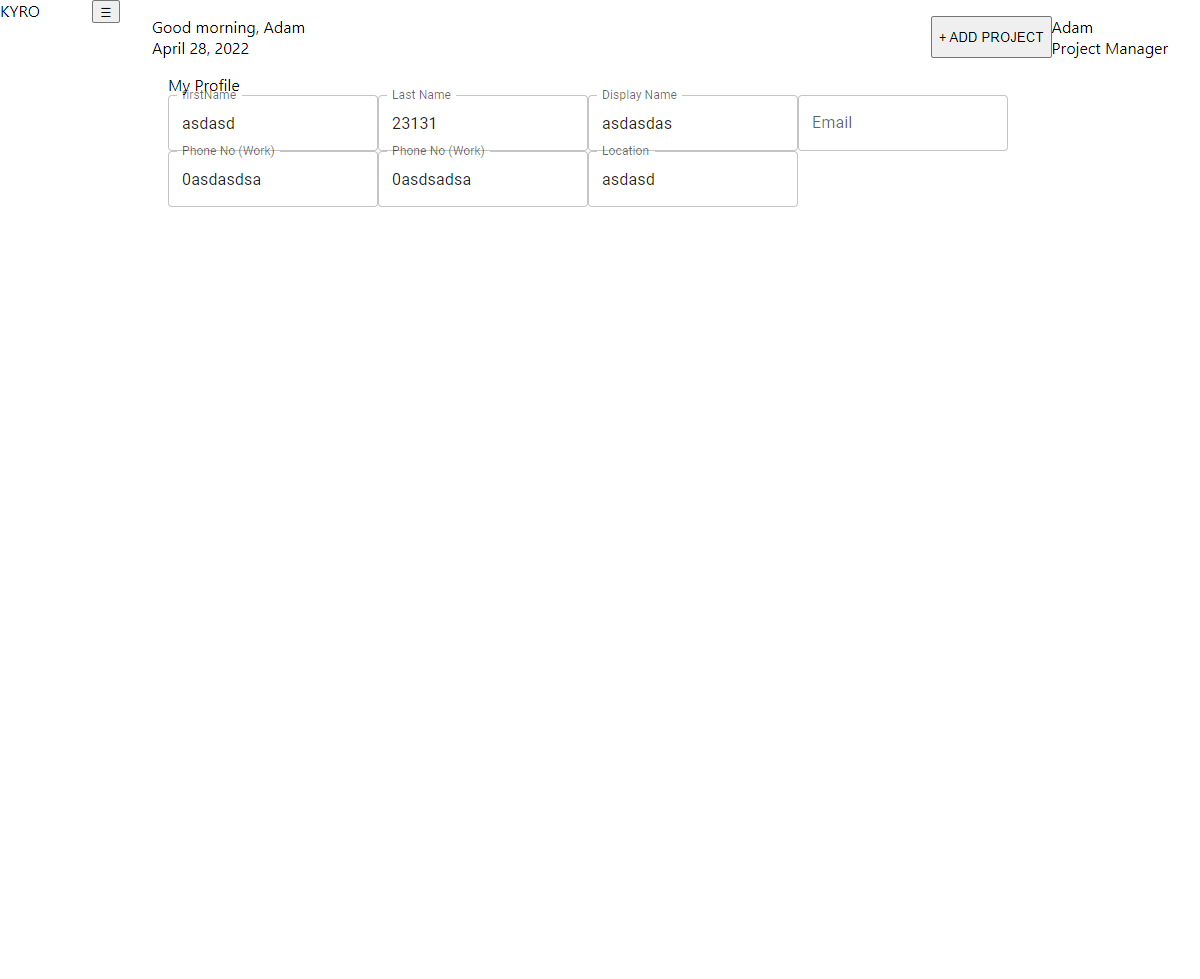
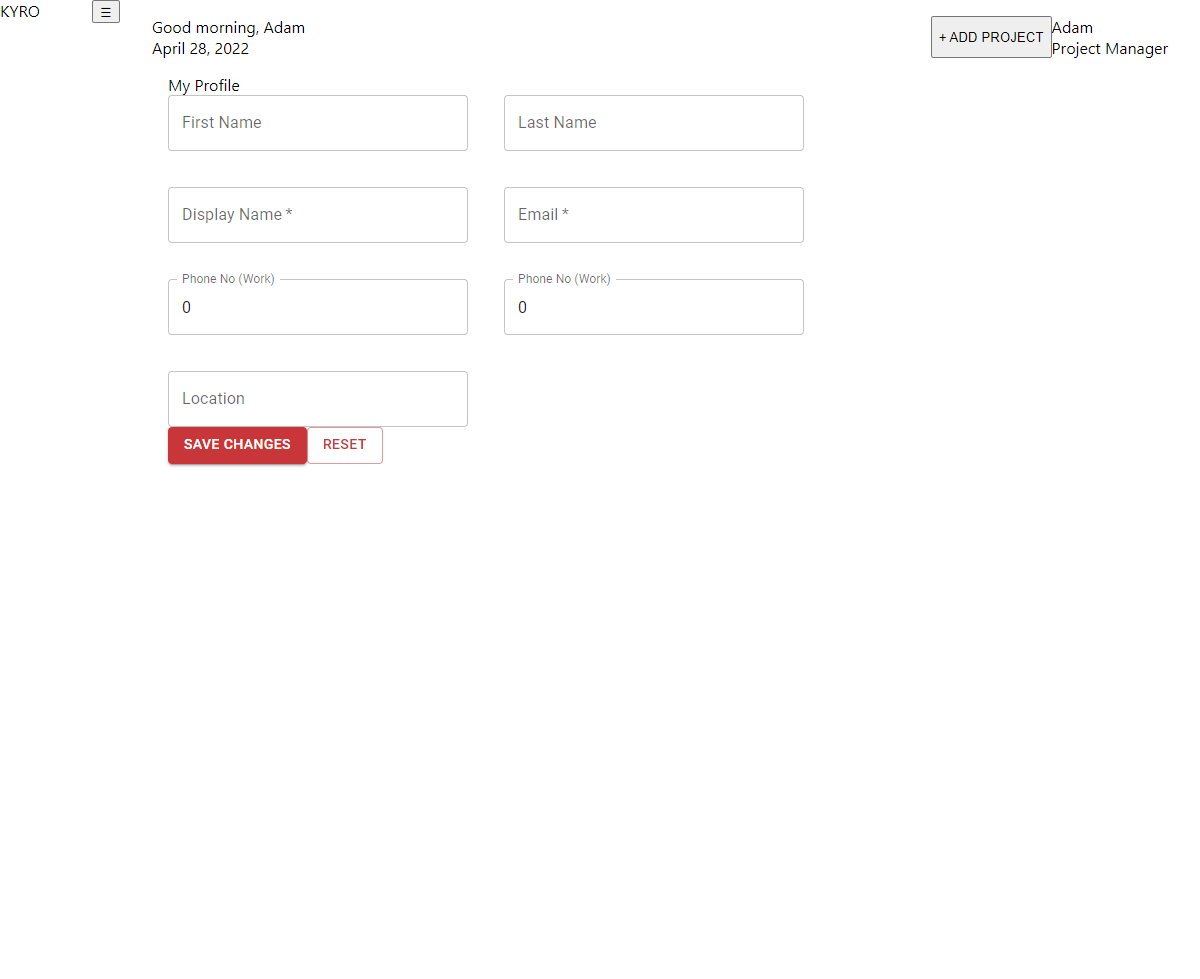
feat:fe: mock submit and reset btn created; style: styled inputs and buttons

diff --git a/frontend/pages/account/details/index.tsx b/frontend/pages/account/details/index.tsx
@@ -1,5 +1,7 @@
 import { FC, useEffect, useState, ChangeEvent } from 'react';
+import Button from '@mui/material/Button';
 import TextField from '@mui/material/TextField';
+import styles from './index.module.css';
 
 interface IAccountDetailsProps {
 }
@@ -15,27 +17,36 @@ const AccountDetails: FC<IAccountDetailsProps> = (props) => {
     phoneNo2: 0,
     location: ''
   };
-  const [formAccDetails, setFormAccDetails] = useState(initialFormState);
+  const [ formAccDetails, setFormAccDetails ] = useState(initialFormState);
 
   function handleChange(e: ChangeEvent<HTMLInputElement>) {
-    console.log(e.target?.id, e.target?.value);
+    // console.log(e.target?.id, e.target?.value);
     setFormAccDetails({
       ...formAccDetails,
       [e.target?.id]: e.target?.value
     });
   };
 
+  function handleSubmit() {
+    console.log('formAccDetails :>> ', formAccDetails);
+
+  };
+
+  function handleReset() {
+    setFormAccDetails(initialFormState);
+  };
+
   return (
-    <div className='account-details-container' >
-      <div className="header">
+    <div className={styles['account-details-container' ]}>
+      <div className={styles['header']}>
         My Profile
       </div>
-      <div className="body">
-        <div className="form">
-          <div className="inputs-container">
+      <div className={styles['body']}>
+        <div className={styles['form']}>
+          <div className={styles['inputs-container']}>
             <TextField
               id='firstName'
-              label='firstName'
+              label='First Name'
               value={formAccDetails.firstName}
               onChange={handleChange}
             />
@@ -48,23 +59,27 @@ const AccountDetails: FC<IAccountDetailsProps> = (props) => {
             <TextField
               id='displayName'
               label='Display Name'
+              required={true}
               value={formAccDetails.displayName}
               onChange={handleChange}
             />
             <TextField
               id='email'
               label='Email'
+              required={true}
               value={formAccDetails.email}
               onChange={handleChange}
             />
             <TextField
               id='phoneNo1'
+              type='number'
               label='Phone No (Work)'
               value={formAccDetails.phoneNo1}
               onChange={handleChange}
             />
             <TextField
               id='phoneNo2'
+              type='number'
               label='Phone No (Work)'
               value={formAccDetails.phoneNo2}
               onChange={handleChange}
@@ -78,11 +93,24 @@ const AccountDetails: FC<IAccountDetailsProps> = (props) => {
 
 
           </div>
-          <div className="buttons-container">
+          <div className={styles['buttons-container']}>
+            <Button
+              variant='contained'
+              onClick={handleSubmit}
+              >
+              Save Changes
+            </Button>
+
+            <Button
+              variant='outlined'
+              onClick={handleReset}
+              >
+              Reset
+            </Button>
 
           </div>
         </div>
-        <div className="result">
+        <div className={styles['result']}>
 
         </div>
       </div>

diff --git a/frontend/pages/_app.tsx b/frontend/pages/_app.tsx
@@ -1,12 +1,25 @@
 import type { AppProps } from 'next/app';
 import Layout from '../components/Layout/Layout';
+import { ThemeProvider } from '@mui/material';
+import { createTheme } from '@mui/material';
 import '../styles/globals.css';
+
+const theme = createTheme({
+  palette: {
+    primary: {
+      main: 'hsl(358, 58%, 50%)'
+    }
+  }
+});
 
 function MyApp({ Component, pageProps }: AppProps) {
   return (
-    <Layout>
-      <Component {...pageProps} />
-    </Layout>
+    <ThemeProvider theme={theme}>
+      <Layout>
+        <Component {...pageProps} />
+      </Layout>
+
+    </ThemeProvider>
   );
 };
 

diff --git a/frontend/styles/globals.css b/frontend/styles/globals.css
@@ -24,6 +24,17 @@ p {
 }
 
 /*
+ * MUI
+ */
+
+  .MuiTextField-root {
+    width: 300px;
+  }
+
+
+
+
+/*
 @media (prefers-color-scheme: dark) {
   html {
     color-scheme: dark;

diff --git a/frontend/pages/account/details/index.module.css b/frontend/pages/account/details/index.module.css
@@ -1,0 +1,6 @@
+.inputs-container {
+  display: flex;
+  width: 70%;
+  flex-wrap: wrap;
+  gap: 2.25rem 2.25rem;
+}
